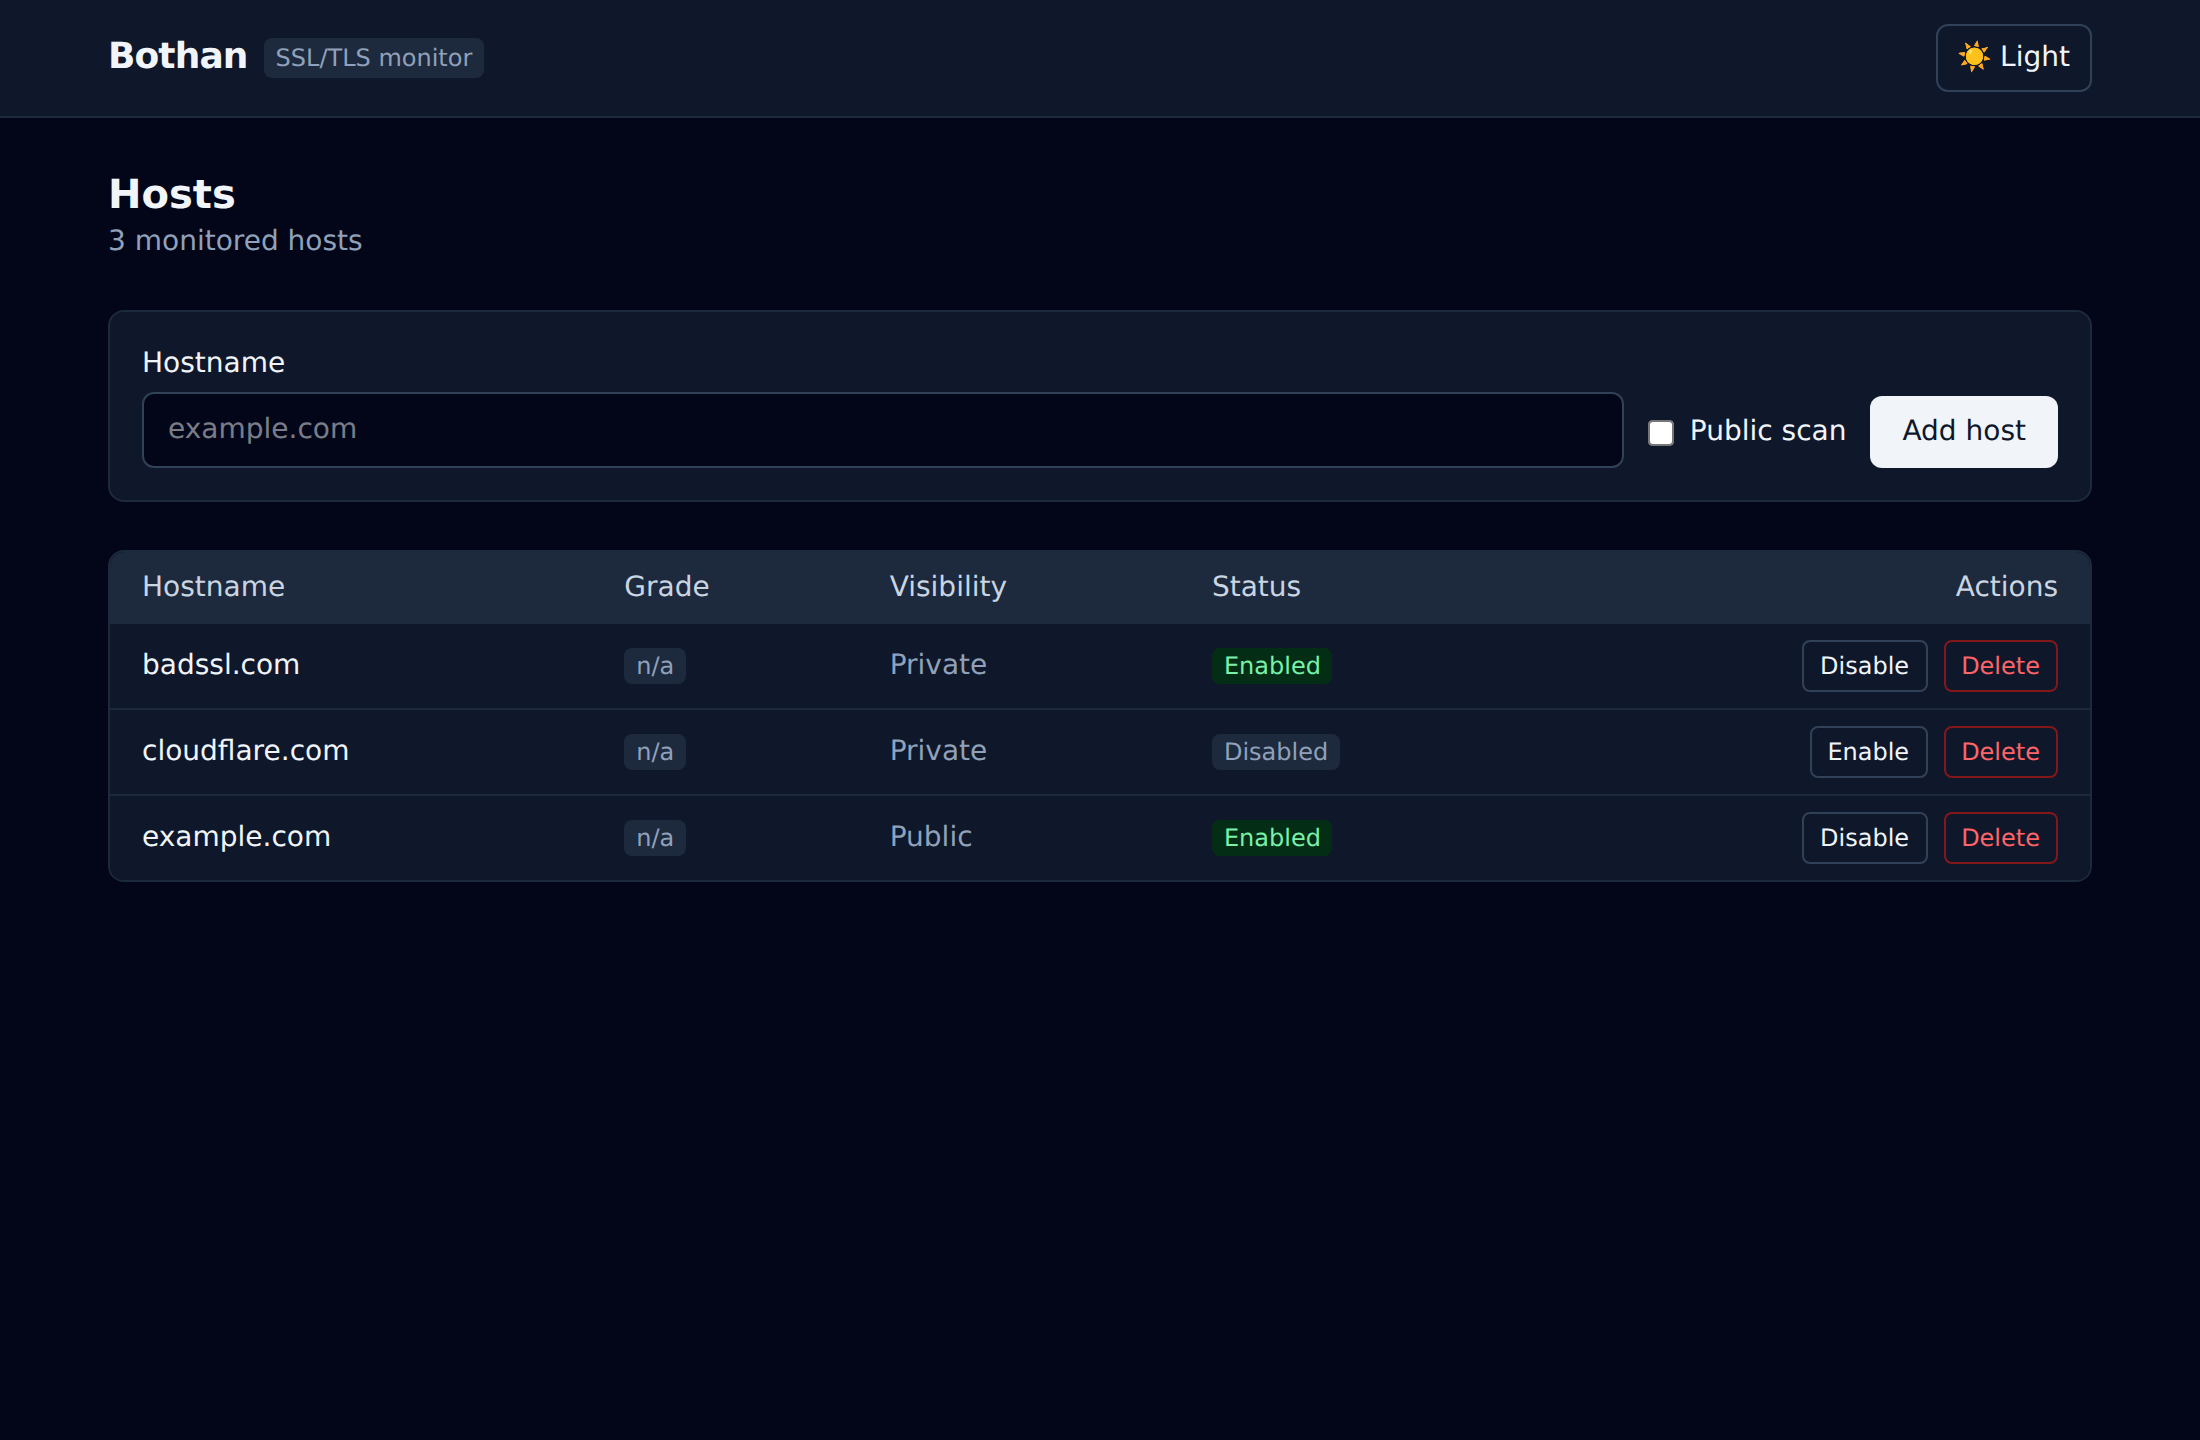
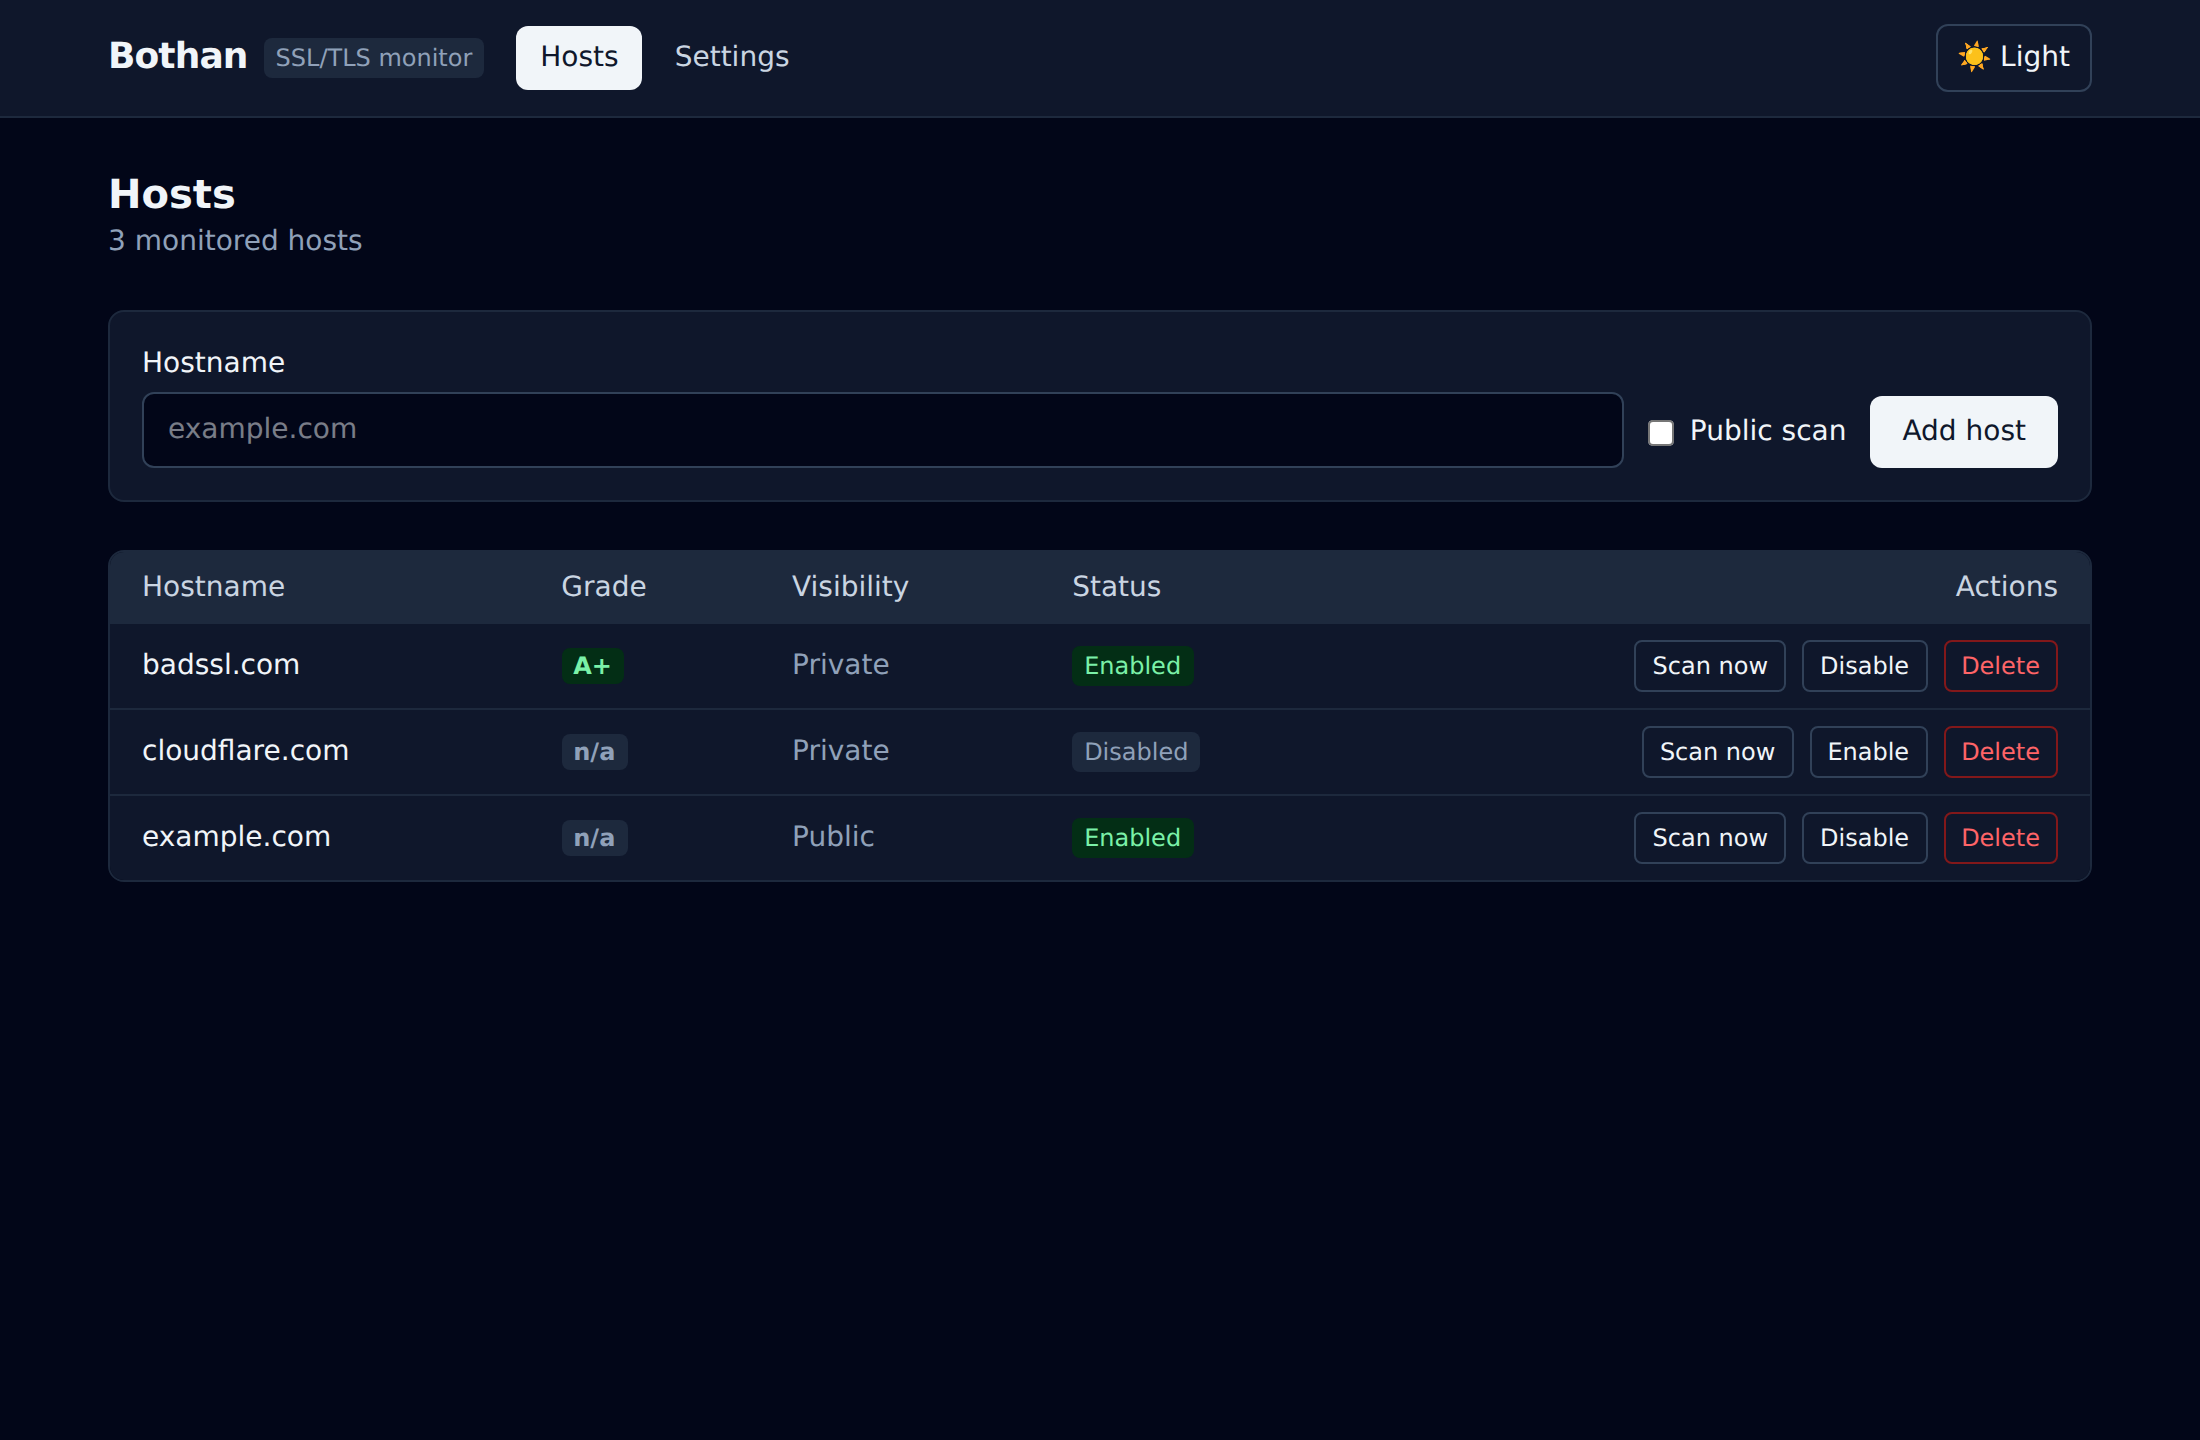
feat(web): scan-now button, grade badges, live refresh; docs
Hosts page gains a Scan-now action, color-coded grade badges from the latest
scan, scanning/error status chips, and a 15s live refresh. README documents the
scan and SSL Labs APIs with refreshed screenshots.

diff --git a/web/src/pages/HostsPage.tsx b/web/src/pages/HostsPage.tsx
@@ -1,11 +1,13 @@
 import { useEffect, useState } from "react";
 import { api, ApiError } from "../lib/api";
+import { gradeClasses, gradeLabel } from "../lib/grade";
 import type { Host } from "../types";
 
 export default function HostsPage() {
   const [hosts, setHosts] = useState<Host[]>([]);
   const [loading, setLoading] = useState(true);
   const [error, setError] = useState<string | null>(null);
+  const [scanning, setScanning] = useState<Set<number>>(new Set());
 
   async function refresh() {
     try {
@@ -20,7 +22,25 @@ export default function HostsPage() {
 
   useEffect(() => {
     refresh();
+    const t = setInterval(refresh, 15000); // live refresh while scans run
+    return () => clearInterval(t);
   }, []);
+
+  async function scan(id: number) {
+    setScanning((s) => new Set(s).add(id));
+    try {
+      await api.scanHost(id);
+    } catch (e) {
+      setError(e instanceof ApiError ? e.message : "failed to start scan");
+    } finally {
+      setScanning((s) => {
+        const n = new Set(s);
+        n.delete(id);
+        return n;
+      });
+      refresh();
+    }
+  }
 
   return (
     <div className="space-y-6">
@@ -48,7 +68,13 @@ export default function HostsPage() {
           No hosts yet. Add one above to start monitoring.
         </p>
       ) : (
-        <HostsTable hosts={hosts} onChanged={refresh} onError={setError} />
+        <HostsTable
+          hosts={hosts}
+          scanning={scanning}
+          onScan={scan}
+          onChanged={refresh}
+          onError={setError}
+        />
       )}
     </div>
   );
@@ -109,12 +135,28 @@ function AddHostForm({ onAdded }: { onAdded: () => void }) {
   );
 }
 
+function statusBadge(status?: string): { label: string; cls: string } | null {
+  switch (status) {
+    case "running":
+    case "pending":
+      return { label: "scanning…", cls: "bg-blue-100 text-blue-700 dark:bg-blue-950 dark:text-blue-300" };
+    case "error":
+      return { label: "scan error", cls: "bg-red-100 text-red-700 dark:bg-red-950 dark:text-red-300" };
+    default:
+      return null;
+  }
+}
+
 function HostsTable({
   hosts,
+  scanning,
+  onScan,
   onChanged,
   onError,
 }: {
   hosts: Host[];
+  scanning: Set<number>;
+  onScan: (id: number) => void;
   onChanged: () => void;
   onError: (msg: string) => void;
 }) {
@@ -140,52 +182,67 @@ function HostsTable({
           </tr>
         </thead>
         <tbody className="divide-y divide-slate-100 dark:divide-slate-800">
-          {hosts.map((h) => (
-            <tr key={h.id} className="bg-white dark:bg-slate-900">
-              <td className="px-4 py-2 font-medium">{h.hostname}</td>
-              <td className="px-4 py-2">
-                <span className="rounded bg-slate-100 px-1.5 py-0.5 text-xs text-slate-500 dark:bg-slate-800 dark:text-slate-400">
-                  n/a
-                </span>
-              </td>
-              <td className="px-4 py-2 text-slate-500 dark:text-slate-400">
-                {h.publish ? "Public" : "Private"}
-              </td>
-              <td className="px-4 py-2">
-                <span
-                  className={
-                    h.enabled
-                      ? "rounded bg-green-100 px-1.5 py-0.5 text-xs text-green-700 dark:bg-green-950 dark:text-green-300"
-                      : "rounded bg-slate-100 px-1.5 py-0.5 text-xs text-slate-500 dark:bg-slate-800 dark:text-slate-400"
-                  }
-                >
-                  {h.enabled ? "Enabled" : "Disabled"}
-                </span>
-              </td>
-              <td className="px-4 py-2">
-                <div className="flex justify-end gap-2">
-                  <button
-                    type="button"
-                    onClick={() => guard(() => (h.enabled ? api.disableHost(h.id) : api.enableHost(h.id)))}
-                    className="rounded border border-slate-300 px-2 py-1 text-xs hover:bg-slate-100 dark:border-slate-700 dark:hover:bg-slate-800"
-                  >
-                    {h.enabled ? "Disable" : "Enable"}
-                  </button>
-                  <button
-                    type="button"
-                    onClick={() => {
-                      if (confirm(`Delete ${h.hostname}? This removes its scan history.`)) {
-                        guard(() => api.deleteHost(h.id));
+          {hosts.map((h) => {
+            const sb = statusBadge(h.last_scan_status);
+            const isScanning = scanning.has(h.id) || h.last_scan_status === "running" || h.last_scan_status === "pending";
+            return (
+              <tr key={h.id} className="bg-white dark:bg-slate-900">
+                <td className="px-4 py-2 font-medium">{h.hostname}</td>
+                <td className="px-4 py-2">
+                  <span className={`rounded px-1.5 py-0.5 text-xs font-semibold ${gradeClasses(h.latest_grade)}`}>
+                    {gradeLabel(h.latest_grade)}
+                  </span>
+                </td>
+                <td className="px-4 py-2 text-slate-500 dark:text-slate-400">
+                  {h.publish ? "Public" : "Private"}
+                </td>
+                <td className="px-4 py-2">
+                  <div className="flex items-center gap-2">
+                    <span
+                      className={
+                        h.enabled
+                          ? "rounded bg-green-100 px-1.5 py-0.5 text-xs text-green-700 dark:bg-green-950 dark:text-green-300"
+                          : "rounded bg-slate-100 px-1.5 py-0.5 text-xs text-slate-500 dark:bg-slate-800 dark:text-slate-400"
                       }
-                    }}
-                    className="rounded border border-red-300 px-2 py-1 text-xs text-red-600 hover:bg-red-50 dark:border-red-900 dark:text-red-400 dark:hover:bg-red-950"
-                  >
-                    Delete
-                  </button>
-                </div>
-              </td>
-            </tr>
-          ))}
+                    >
+                      {h.enabled ? "Enabled" : "Disabled"}
+                    </span>
+                    {sb && <span className={`rounded px-1.5 py-0.5 text-xs ${sb.cls}`}>{sb.label}</span>}
+                  </div>
+                </td>
+                <td className="px-4 py-2">
+                  <div className="flex justify-end gap-2">
+                    <button
+                      type="button"
+                      disabled={isScanning}
+                      onClick={() => onScan(h.id)}
+                      className="rounded border border-slate-300 px-2 py-1 text-xs hover:bg-slate-100 disabled:opacity-50 dark:border-slate-700 dark:hover:bg-slate-800"
+                    >
+                      {isScanning ? "Scanning…" : "Scan now"}
+                    </button>
+                    <button
+                      type="button"
+                      onClick={() => guard(() => (h.enabled ? api.disableHost(h.id) : api.enableHost(h.id)))}
+                      className="rounded border border-slate-300 px-2 py-1 text-xs hover:bg-slate-100 dark:border-slate-700 dark:hover:bg-slate-800"
+                    >
+                      {h.enabled ? "Disable" : "Enable"}
+                    </button>
+                    <button
+                      type="button"
+                      onClick={() => {
+                        if (confirm(`Delete ${h.hostname}? This removes its scan history.`)) {
+                          guard(() => api.deleteHost(h.id));
+                        }
+                      }}
+                      className="rounded border border-red-300 px-2 py-1 text-xs text-red-600 hover:bg-red-50 dark:border-red-900 dark:text-red-400 dark:hover:bg-red-950"
+                    >
+                      Delete
+                    </button>
+                  </div>
+                </td>
+              </tr>
+            );
+          })}
         </tbody>
       </table>
     </div>

diff --git a/web/src/types.ts b/web/src/types.ts
@@ -9,6 +9,37 @@ export interface Host {
   notes: string;
   created_at: string;
   updated_at: string;
+  latest_grade?: string;
+  last_scan_status?: string;
+  last_scan_at?: string;
+}
+
+export interface Scan {
+  id: number;
+  host_id: number;
+  status: string;
+  trigger: string;
+  overall_grade: string;
+  engine_version: string;
+  criteria_version: string;
+  error_message?: string;
+  started_at?: string;
+  completed_at?: string;
+  created_at: string;
+  endpoints?: ScanEndpoint[];
+}
+
+export interface ScanEndpoint {
+  id: number;
+  ip_address: string;
+  server_name?: string;
+  grade: string;
+  grade_trust_ignored?: string;
+  has_warnings: boolean;
+  is_exceptional: boolean;
+  status_message?: string;
+  cert_not_after?: string;
+  progress: number;
 }
 
 export interface HostInput {

diff --git a/web/src/lib/grade.ts b/web/src/lib/grade.ts
@@ -1,0 +1,20 @@
+// Grade badge colors, aligned with the SSL Labs ordering. Returns Tailwind
+// class strings for light and dark themes.
+export function gradeClasses(grade?: string): string {
+  const g = (grade ?? "").toUpperCase();
+  if (g === "A+" || g === "A" || g === "A-")
+    return "bg-green-100 text-green-700 dark:bg-green-950 dark:text-green-300";
+  if (g === "B")
+    return "bg-lime-100 text-lime-700 dark:bg-lime-950 dark:text-lime-300";
+  if (g === "C")
+    return "bg-yellow-100 text-yellow-700 dark:bg-yellow-950 dark:text-yellow-300";
+  if (g === "D" || g === "E")
+    return "bg-orange-100 text-orange-700 dark:bg-orange-950 dark:text-orange-300";
+  if (g === "F" || g === "T" || g === "M")
+    return "bg-red-100 text-red-700 dark:bg-red-950 dark:text-red-300";
+  return "bg-slate-100 text-slate-500 dark:bg-slate-800 dark:text-slate-400";
+}
+
+export function gradeLabel(grade?: string): string {
+  return grade && grade !== "" ? grade : "n/a";
+}

diff --git a/web/src/lib/api.ts b/web/src/lib/api.ts
@@ -1,4 +1,4 @@
-import type { Host, HostInput, Settings, SettingsPatch } from "../types";
+import type { Host, HostInput, Scan, Settings, SettingsPatch } from "../types";
 
 const BASE = "/api/v1";
 
@@ -36,6 +36,10 @@ export const api = {
   deleteHost: (id: number) => req<void>("DELETE", `/hosts/${id}`),
   enableHost: (id: number) => req<Host>("POST", `/hosts/${id}/enable`),
   disableHost: (id: number) => req<Host>("POST", `/hosts/${id}/disable`),
+
+  scanHost: (id: number) => req<Scan>("POST", `/hosts/${id}/scan`),
+  hostScans: (id: number) => req<Scan[]>("GET", `/hosts/${id}/scans`),
+  getScan: (id: number) => req<Scan>("GET", `/scans/${id}`),
 
   getSettings: () => req<Settings>("GET", "/settings"),
   updateSettings: (patch: SettingsPatch) => req<Settings>("PUT", "/settings", patch),

diff --git a/README.md b/README.md
@@ -5,11 +5,12 @@ posture of your domains and websites using the [Qualys SSL Labs
 API](https://www.ssllabs.com/), tracks grade history, compares scans over time,
 and alerts you through multiple notification channels when something changes.
 
-> Status: early development. **Phases 1–2** are implemented — the single binary
-> boots, serves its HTTP surface, manages monitored **hosts** (CRUD via API and
-> a web UI), applies its database schema, exposes Prometheus metrics, and embeds
-> the React web UI. Scanning, scheduling, notifications, comparison, dashboard,
-> export/import, and auth arrive in subsequent phases.
+> Status: early development. **Phases 1–3** are implemented — the single binary
+> boots, manages monitored **hosts** (CRUD via API and UI), runs **SSL Labs
+> assessments** (manual "scan now", grade history, per-endpoint results),
+> applies its database schema, exposes Prometheus metrics, and embeds the React
+> web UI. Scheduling, notifications, comparison, dashboard, export/import, and
+> auth arrive in subsequent phases.
 
 ## What works today
 
@@ -65,6 +66,29 @@ rest from the **Settings** page.
 | `DELETE` | `/api/v1/hosts/{id}` | Delete a host (cascades to its scans). |
 | `POST` | `/api/v1/hosts/{id}/enable` | Enable scanning for a host. |
 | `POST` | `/api/v1/hosts/{id}/disable` | Disable scanning without deleting. |
+| `POST` | `/api/v1/hosts/{id}/scan` | Trigger a manual SSL Labs scan (202 Accepted). |
+| `GET` | `/api/v1/hosts/{id}/scans` | Scan history for a host. |
+
+## Scan API
+
+| Method | Path | Description |
+|---|---|---|
+| `GET` | `/api/v1/scans/{id}` | Scan detail with per-endpoint grades and cert expiry. |
+| `GET` | `/api/v1/scans/{id}/raw` | Full raw SSL Labs Host JSON for the scan. |
+
+## SSL Labs API
+
+| Method | Path | Description |
+|---|---|---|
+| `GET` | `/api/v1/ssllabs/info` | Engine/criteria version, capacity, and registration status. |
+| `POST` | `/api/v1/ssllabs/register` | One-time v4 email registration (`{name, email, organization}`); persists the email. |
+
+Bothan targets SSL Labs **API v4** by default (which requires a registered
+email; register from the API or Settings) and supports **v3** as a legacy
+fallback that needs no registration. The overall host grade is the lowest-ranked
+grade across its endpoints. Polling, rate-limit back-off (429/503/529/500),
+concurrency, and cool-off follow the SSL Labs guidelines. Set
+`BOTHAN_SSLLABS_BASE_URL` to point at a self-hosted or mock endpoint.
 
 ## Settings
 